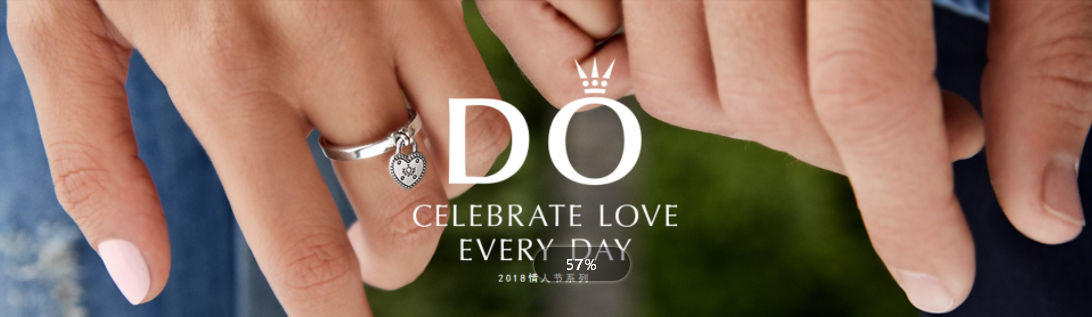
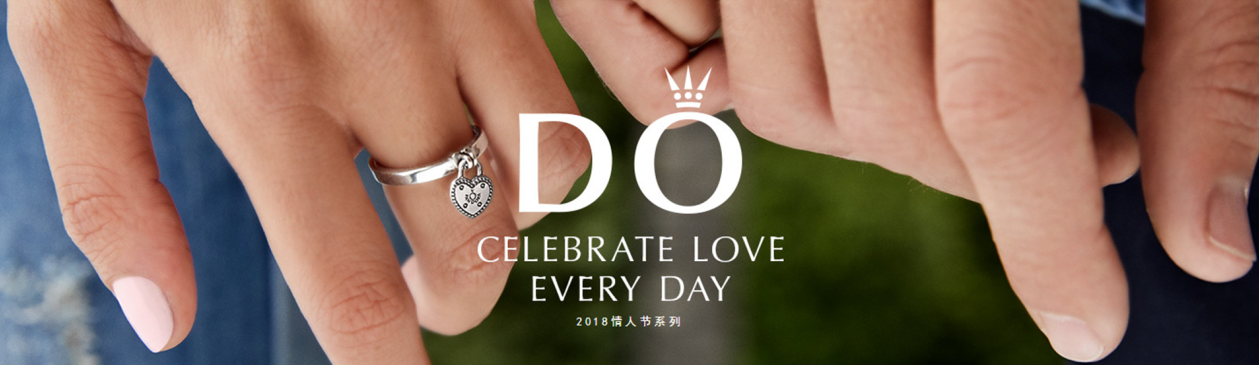
mohuan 第三版

diff --git a/src/views/theme.vue b/src/views/theme.vue
@@ -1,23 +1,65 @@
 <template>
     <div class="theme">
-        theme
+        
+        <div class="theme_banner">
+          <img src="../assets/img/theme1.png" alt="">
+        </div>
+
+        <div class="theme1">
+          <div class="theme1_top">
+            <p>"锁"住承诺</p>
+            <p>浪漫心形</p>
+            <p>用手工珠宝产品打开她的芳心。</p>
+          </div>
+          <div class="theme1_foot">
+            <img src="../assets/img/theme2.png" alt="">
+          </div>
+        </div>
+
     </div>
 </template>
 
 <script>
-    export default {
-        name: 'theme',
-        components: {},
-        data() {
-            return {
-                msg: 'template'
-            };
-        }
+export default {
+  name: "theme",
+  components: {},
+  data() {
+    return {
+      msg: "template"
     };
+  }
+};
 </script>
 
 <style lang="scss">
-    .theme{
-        
+.theme {
+  .theme_banner {
+    img {
+      width: 100%;
     }
+  }
+
+  .theme1 {
+    text-align: center;
+    background: url("../assets/img/theme3.png") no-repeat;
+    background-position:top left;
+    .theme1_top {
+      margin: 30px 0;
+      p {
+        &:nth-child(1) {
+          font-size: 12px;
+        }
+        &:nth-child(2) {
+          font-size: 24px;
+          margin: 10px 0;
+        }
+        &:nth-child(3) {
+        }
+      }
+    }
+    .theme1_foot {
+      margin-top: 40px;
+    }
+  }
+}
 </style>
